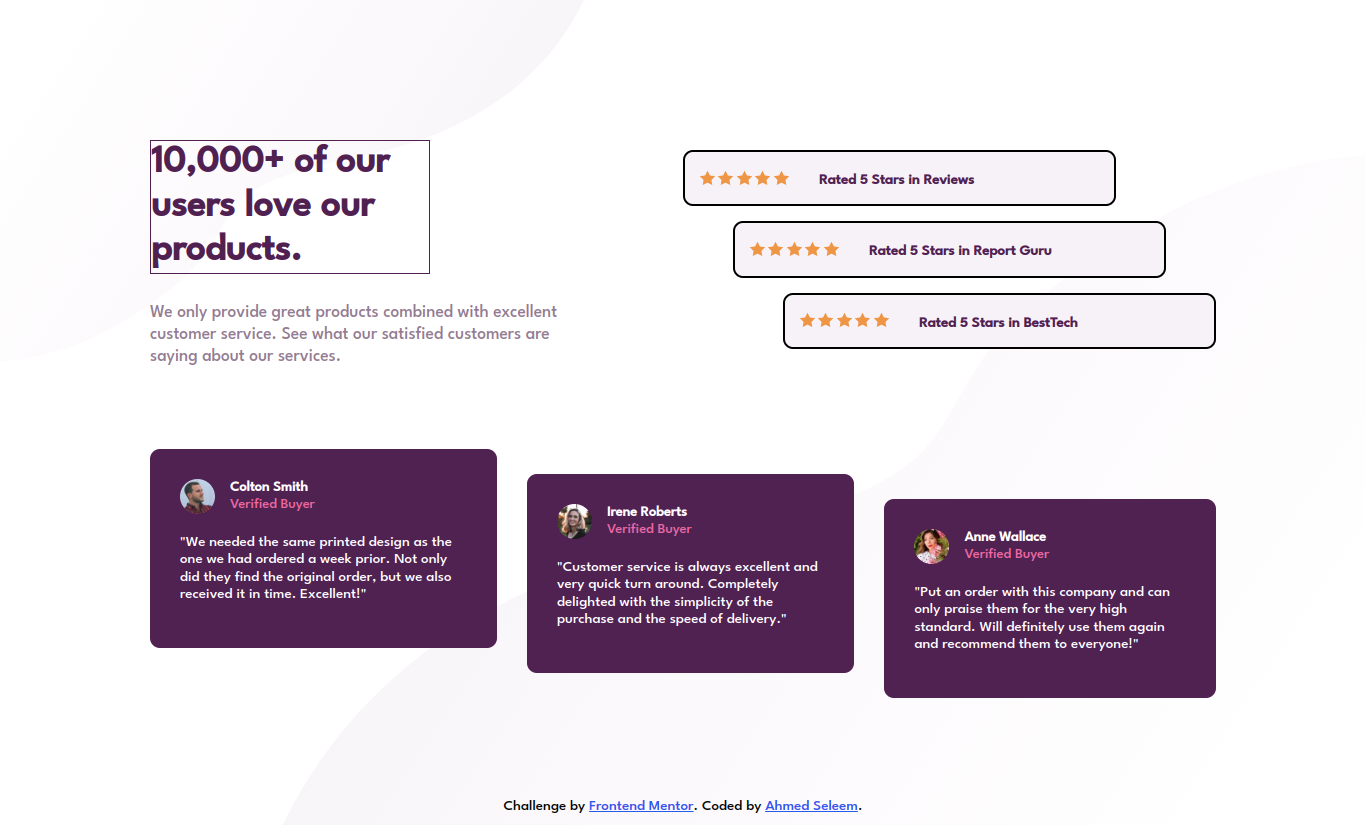
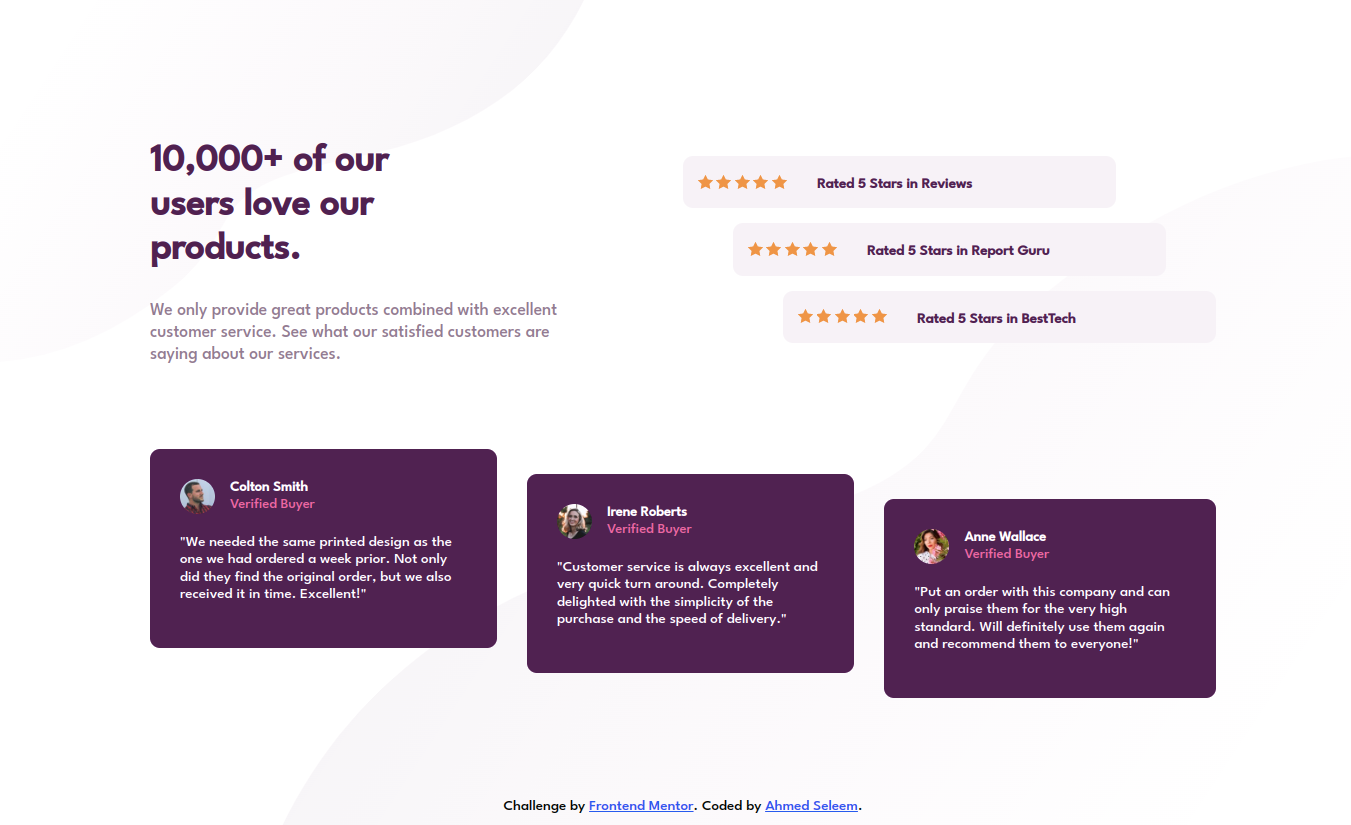
Update screenshot

diff --git a/styles/sytle.css b/styles/sytle.css
@@ -184,7 +184,6 @@ footer.attribution a {
     align-items: flex-start;
   }
   .main-container .section-1 h1 {
-    border: 1px solid;
     width: 280px;
     margin-bottom: 10px;
   }
@@ -198,7 +197,6 @@ footer.attribution a {
   .section-2 > ul > li {
     flex-direction: row;
     gap: 30px;
-    border: 2px solid;
     width: 100%;
   }
   .section-2 > ul > li:nth-child(2) {
